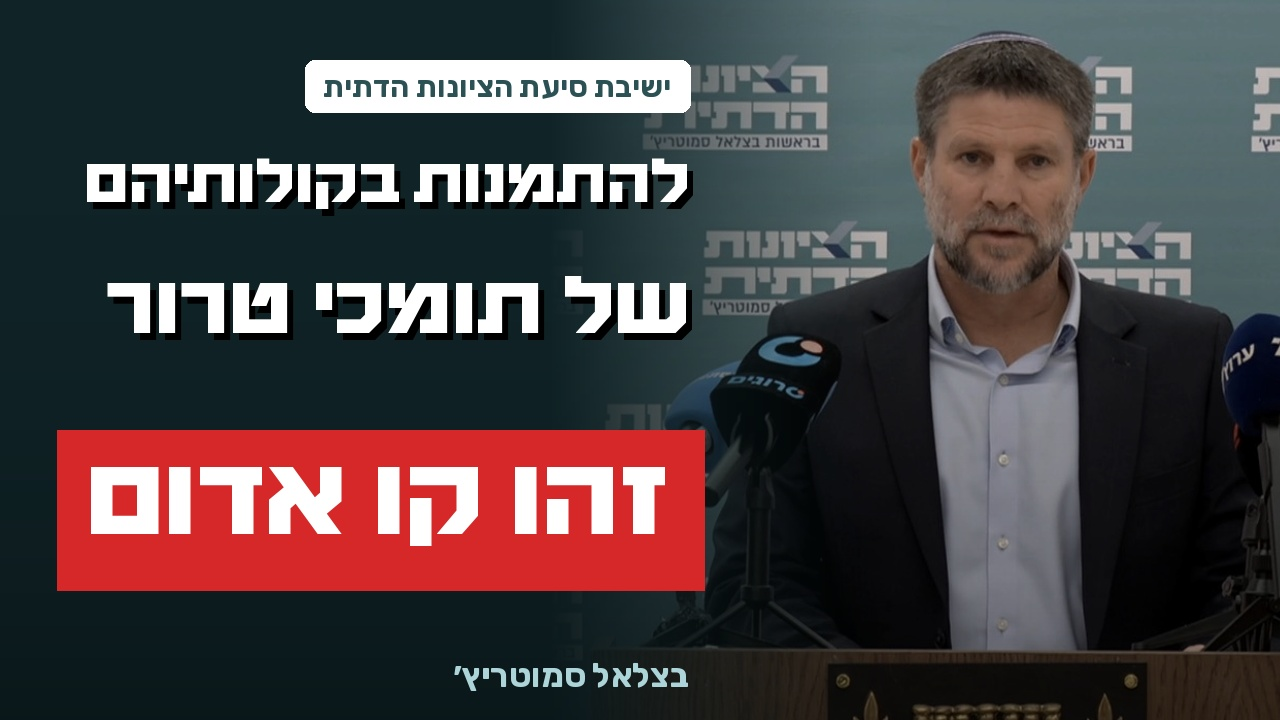
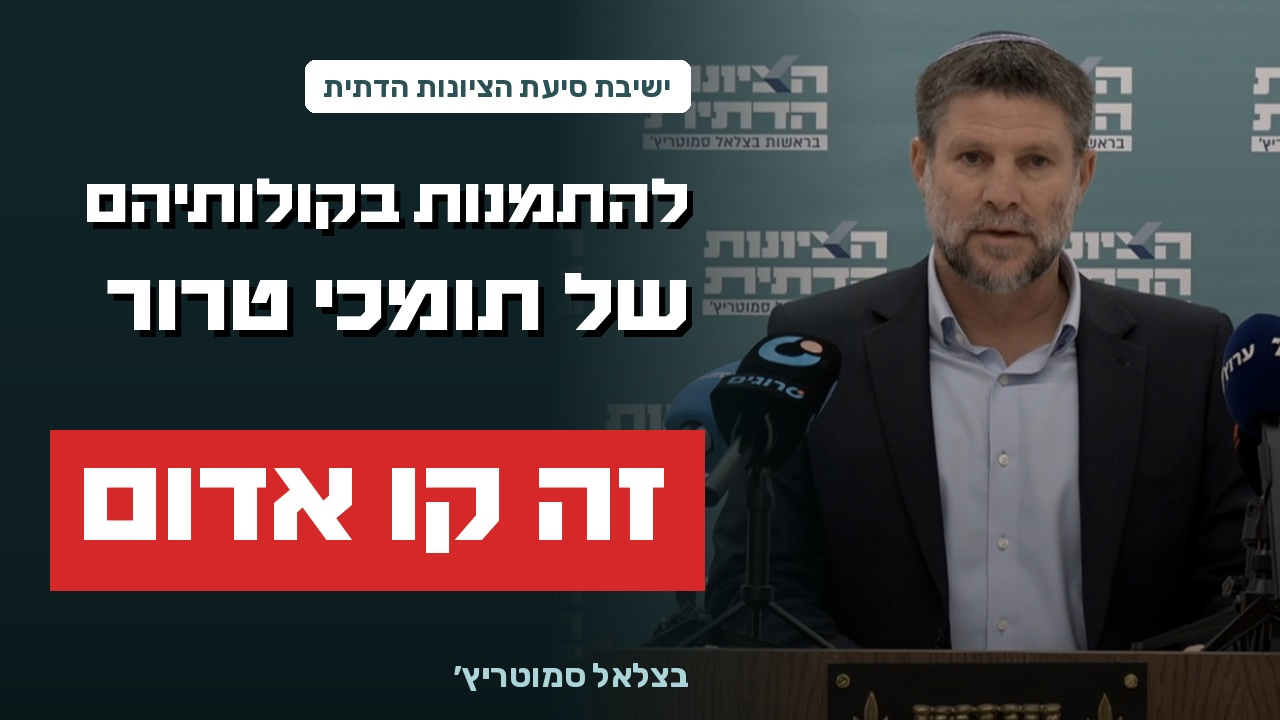
RZ thumb: 'זה קו אדום', tighter lines
Claude-Session: https://claude.ai/code/session_01RS3QK6pAd3YhyAuXZSJjH1

diff --git a/content-kit/hatzionut-hadatit/2026-11-yt-thumb-kahana/make.py b/content-kit/hatzionut-hadatit/2026-11-yt-thumb-kahana/make.py
@@ -31,9 +31,9 @@ d.rounded_rectangle((R - tw - 36, 60, R, 112), 10, fill=(255, 255, 255)); d.text
 def head(txt, y, size, fill=(255, 255, 255)):
     f = fit(txt, size, 610)
     d.text((R + 6, y + 7), txt, font=f, fill=(0, 0, 0, 160), anchor='ra', direction='rtl'); d.text((R, y), txt, font=f, fill=fill, anchor='ra', direction='rtl')
-head('להתמנות בקולותיהם', 150, 96)
-head('של תומכי טרור', 265, 104)
-t = 'זהו קו אדום'; f = fit(t, 132, 600); tw = d.textlength(t, font=f, direction='rtl')
+head('להתמנות בקולותיהם', 170, 96)
+head('של תומכי טרור', 262, 104)
+t = 'זה קו אדום'; f = fit(t, 132, 600); tw = d.textlength(t, font=f, direction='rtl')
 d.rectangle((R - tw - 50, 430, R + 14, 590), fill=(214, 40, 40)); d.text((R - 22, 444), t, font=f, fill=(255, 255, 255), anchor='ra', direction='rtl')
 d.text((R, 655), 'בצלאל סמוטריץ׳', font=F(RUB, 34), fill=PALE, anchor='ra', direction='rtl')
 im.convert('RGB').save(HERE + '/' + OUTN, quality=95); print('ok')
